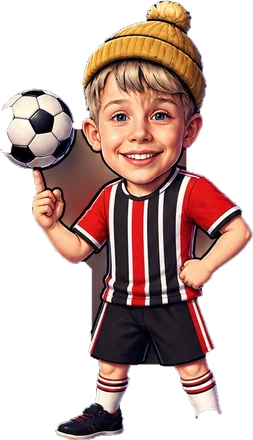
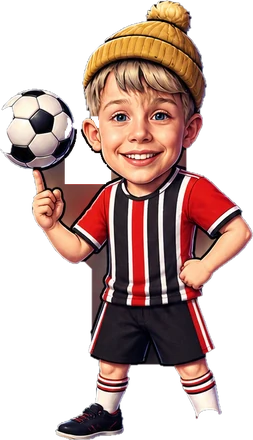
Esqueceram do Lluch FC: manto vira TRICOLOR (branco como 3a cor no MANTO_TRI) e mascote sem o fundo que sobrou perto da bola; gerador de post agora aceita a 3a cor

Changed region(s): [[0.249, 0.2659, 0.4427, 0.4432], [0.3597, 0.2659, 0.415, 0.2955]]

diff --git a/src/escalacao/manto.ts b/src/escalacao/manto.ts
@@ -123,6 +123,7 @@ const MANTO_TRI: Record<string, string> = {
   cobra_arruda: '#C2001E', // 🐍 Tricolor do Arruda FC (Geovany Souza) — 3ª cor VERMELHA (preto/branco/vermelho, 16/08)
   futpoint_bola: '#FFFFFF', // 📍 Futpoint FC (gfpicolo13) — 3ª cor BRANCA (preto/dourado/branco, medidas na camisa dele, 19/08)
   saoluiz_pitbull: '#FFFFFF', // 🐶 São Luiz FC — 3ª cor BRANCA (vermelho/preto/branco, medidas na camisa dele, 21/08)
+  lluch_menino: '#FFFFFF', // 🏠 Esqueceram do Lluch FC — 3ª cor BRANCA: o manto é TRICOLOR listrado à moda São Paulo (vermelho/preto/branco), como o Diego corrigiu em 28/08
 }
 export function meuMantoC3(): string | null {
   const k = meu?.ativo ? meu.mascoteKey : null

diff --git a/docs/pendencias.md b/docs/pendencias.md
@@ -10672,6 +10672,18 @@ tudo agora… lembrando que essas coisas por enquanto é só pro meu usuário"):
       🇧🇷 De quebra, conserto no `mockup-batismo.mjs`: o artigo da mascote era
       ADIVINHADO pela 1ª letra e "O Esquecido" virava "a Esquecido". Agora manda
       o artigo que o próprio nome traz.
+      ✅ CORREÇÕES do Diego no mesmo dia: (1) o manto é TRICOLOR listrado à moda
+      São Paulo — vermelho, preto E BRANCO; o branco entrou como 3ª cor em
+      `MANTO_TRI` (chave `lluch_menino`), que é o caminho certo (as duas cores
+      base seguem medidas na arte). (2) Sobrou FUNDO na mascote, no vão entre a
+      bola e o rosto: meu preenchimento de buracos tinha fechado aquilo achando
+      que era desenho. Limpo numa janelinha de 72×105 px ao redor da mancha (só
+      o marrom do fundo; pele e contorno preto ficaram), mascote regravada com
+      31 KB. Duas tentativas antes falharam e ficam registradas pra ninguém
+      repetir: apagar "cor parecida com o fundo" na peça inteira come os gomos
+      pretos da bola, e flood fill com tolerância 42 vaza pela arte toda.
+      🎽 O gerador de post ganhou `--c3/--c3-nome` (manto de 3 cores) e o texto
+      das cores agora escreve "vermelho, preto e branco".
 - [x] 🐛🪜 TÉCNICO DA DIVISÃO ERRADA — CONSERTADO (28/08, relato do Diego: "meu
       amigo já está na SÉRIE A e, ao olhar os técnicos, apareceu Lisca Doido,
       Joel Santana, Guto Ferreira — técnico de VÁRZEA. Se ele estivesse na
